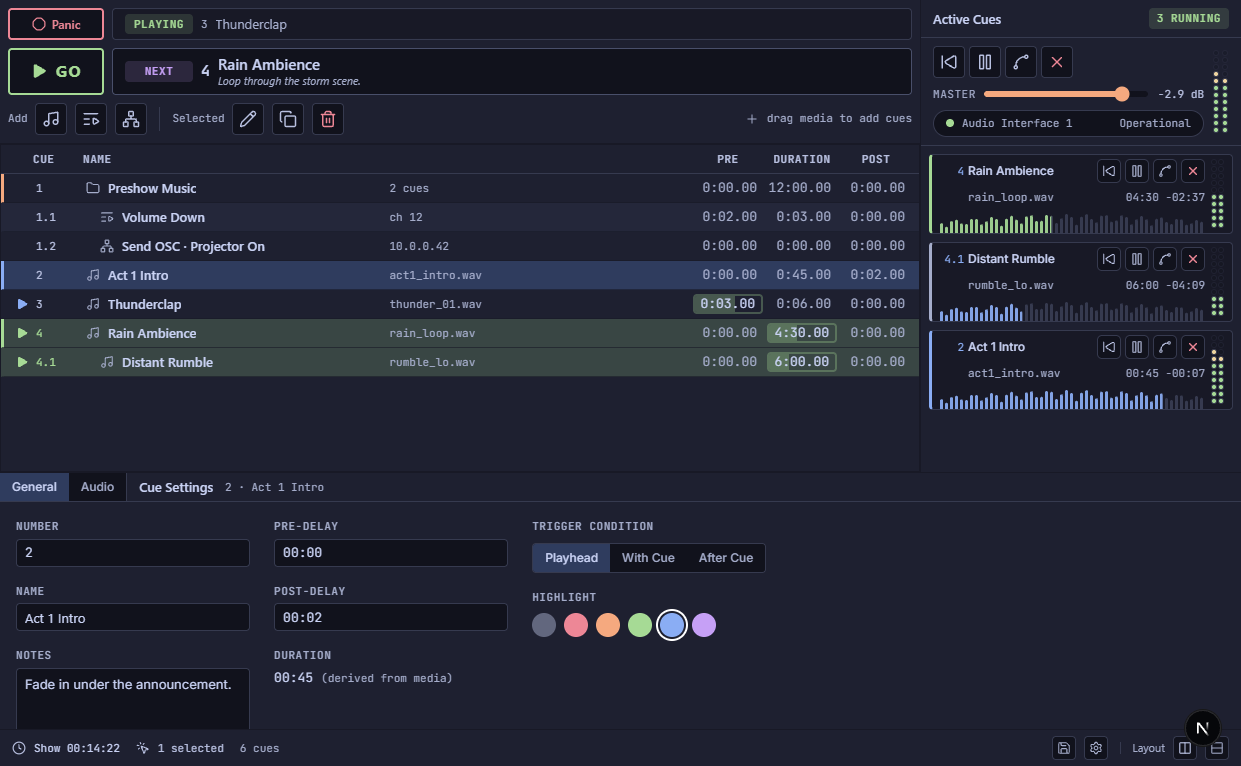
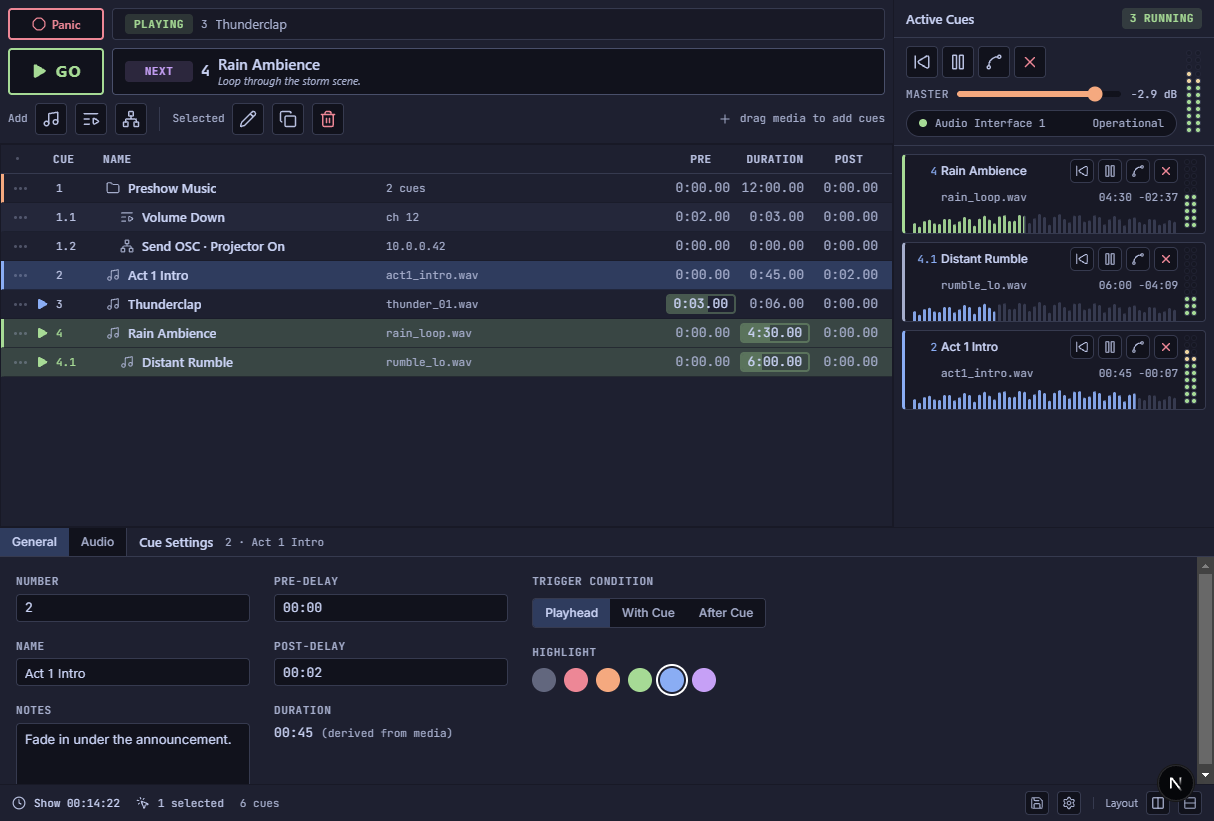
Tweaks

diff --git a/app/globals.css b/app/globals.css
@@ -31,6 +31,7 @@
   --spacing-control-md: 32px;
   --spacing-time-cell: 20px;
   --spacing-col-playhead: 20px;
+  --spacing-col-drag: 14px;
   --spacing-col-cue-number: 46px;
   --spacing-col-time: 70px;
   --spacing-min-panel: 225px;
@@ -484,30 +485,46 @@
     display: grid; width: 100%; align-items: center;
     gap: 4px;
     border-bottom: 1px solid var(--color-element-border);
-    padding: 6px var(--spacing-sm);
+    padding: 6px var(--spacing-sm) 6px var(--spacing-xs);
     font-family: var(--font-mono);
     font-size: var(--font-size-mono-sm);
     font-weight: 600;
     text-transform: uppercase;
     letter-spacing: 0.05em;
     color: var(--color-text-secondary);
-    grid-template-columns: var(--spacing-col-playhead) var(--spacing-col-cue-number) 1fr 1fr var(--spacing-col-time) var(--spacing-col-time) var(--spacing-col-time);
+    grid-template-columns: var(--spacing-col-drag) var(--spacing-col-playhead) var(--spacing-col-cue-number) 1fr 1fr var(--spacing-col-time) var(--spacing-col-time) var(--spacing-col-time);
   }
 
   .cue-row-grid {
     display: grid; width: 100%; align-items: center;
     gap: 4px;
     border-bottom: 1px solid var(--color-border-row-divider);
-    padding: 4px var(--spacing-sm);
+    padding: 4px var(--spacing-sm) 4px var(--spacing-xs);
     font-size: var(--font-size-body);
     outline: none;
-    grid-template-columns: var(--spacing-col-playhead) var(--spacing-col-cue-number) 1fr 1fr var(--spacing-col-time) var(--spacing-col-time) var(--spacing-col-time);
+    grid-template-columns: var(--spacing-col-drag) var(--spacing-col-playhead) var(--spacing-col-cue-number) 1fr 1fr var(--spacing-col-time) var(--spacing-col-time) var(--spacing-col-time);
   }
   .cue-row-grid:focus-visible {
     box-shadow: inset 0 0 0 1px var(--color-border-focus);
   }
   .cue-row-grid-even { background-color: var(--color-surface); }
   .cue-row-grid-odd { background-color: var(--color-surface-raised); }
+
+  /* Drag handle for cue reordering */
+  .drag-handle {
+    display: flex; align-items: center; justify-content: center;
+    cursor: grab;
+    color: var(--color-text-disabled);
+    opacity: 0.35;
+    transition: opacity 75ms;
+  }
+  .drag-handle:hover {
+    opacity: 0.8;
+    color: var(--color-text-secondary);
+  }
+  .drag-handle:active {
+    cursor: grabbing;
+  }
 
   /* ──────────────────────────────────────────────
      Cue Row State-Contrast Matrix

diff --git a/components/articuelate/cuelist.tsx b/components/articuelate/cuelist.tsx
@@ -92,6 +92,11 @@ function CueRow({
       className={rowCls}
       style={{ borderLeft: `3px solid ${stripe ?? "transparent"}` }}
     >
+      {/* Drag handle */}
+      <div className="drag-handle">
+        <AppIcon name="ui.grip" className="h-icon-sm w-icon-sm" />
+      </div>
+
       {/* Playhead */}
       <div className="flex items-center justify-center">
         {standby && (
@@ -162,6 +167,7 @@ export function Cuelist({
       {/* Header row */}
       <div className="cuelist-header">
         <div />
+        <div />
         <div>Cue</div>
         <div>Name</div>
         <div />
@@ -170,7 +176,7 @@ export function Cuelist({
         <div className="text-center">Post</div>
       </div>
 
-      {/* Rows */}
+      {/* Scrollable cue list + footer */}
       <div className="min-h-0 flex-1 overflow-y-auto">
         {CUES.map((cue, i) => (
           <CueRow
@@ -181,6 +187,18 @@ export function Cuelist({
             onSelect={() => onSelect(cue.id)}
           />
         ))}
+
+        {/* Cuelist footer */}
+        <div className="flex shrink-0 items-center border-t border-border-divider-40 pt-md pb-md px-sm">
+          <button
+            type="button"
+            className="btn-icon-xs"
+            aria-label="Add cue"
+            title="Add cue"
+          >
+            <AppIcon name="actions.add" className="h-icon-sm w-icon-sm" />
+          </button>
+        </div>
       </div>
     </section>
   )

diff --git a/components/articuelate/toolbar.tsx b/components/articuelate/toolbar.tsx
@@ -107,11 +107,6 @@ export function Toolbar() {
         <ActionButton name="actions.edit" label="Edit" />
         <ActionButton name="actions.duplicate" label="Duplicate" />
         <ActionButton name="actions.delete" label="Delete" tone="danger" />
-
-        <div className="ml-auto flex items-center gap-sm font-mono text-mono-sm text-text-disabled">
-          <AppIcon name="actions.add" className="h-icon-sm w-icon-sm" />
-          drag media to add cues
-        </div>
       </div>
     </header>
   )

diff --git a/components/icons.tsx b/components/icons.tsx
@@ -21,6 +21,7 @@ import {
   Rows2,
   Clock,
   MousePointerClick,
+  GripVertical,
 } from "lucide-react"
 import type { LucideIcon } from "lucide-react"
 
@@ -57,6 +58,7 @@ const ICON_MAP: Record<string, LucideIcon> = {
   "ui.mouseClick": MousePointerClick,
   "ui.chevronDown": ChevronDown,
   "ui.fileAudio": FileAudio,
+  "ui.grip": GripVertical,
 }
 
 export type AppIconName = keyof typeof ICON_MAP
